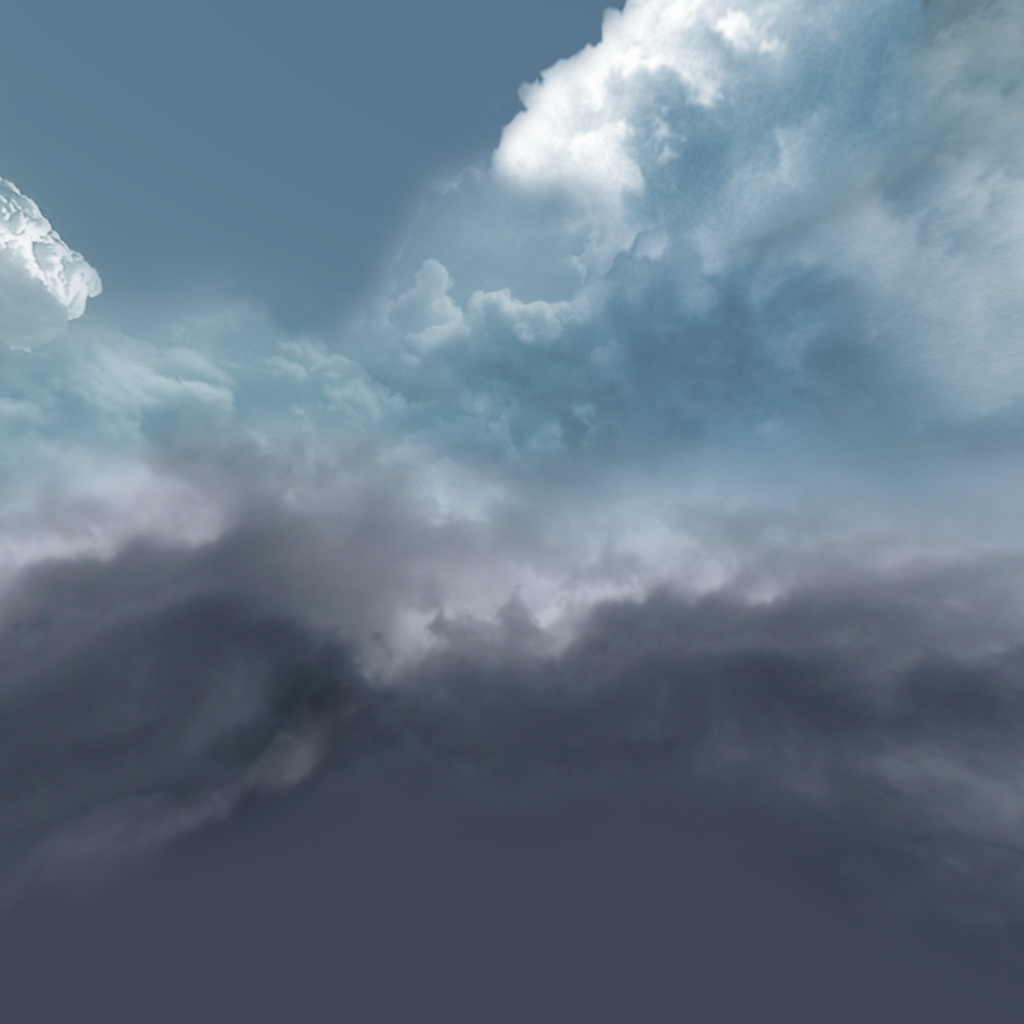
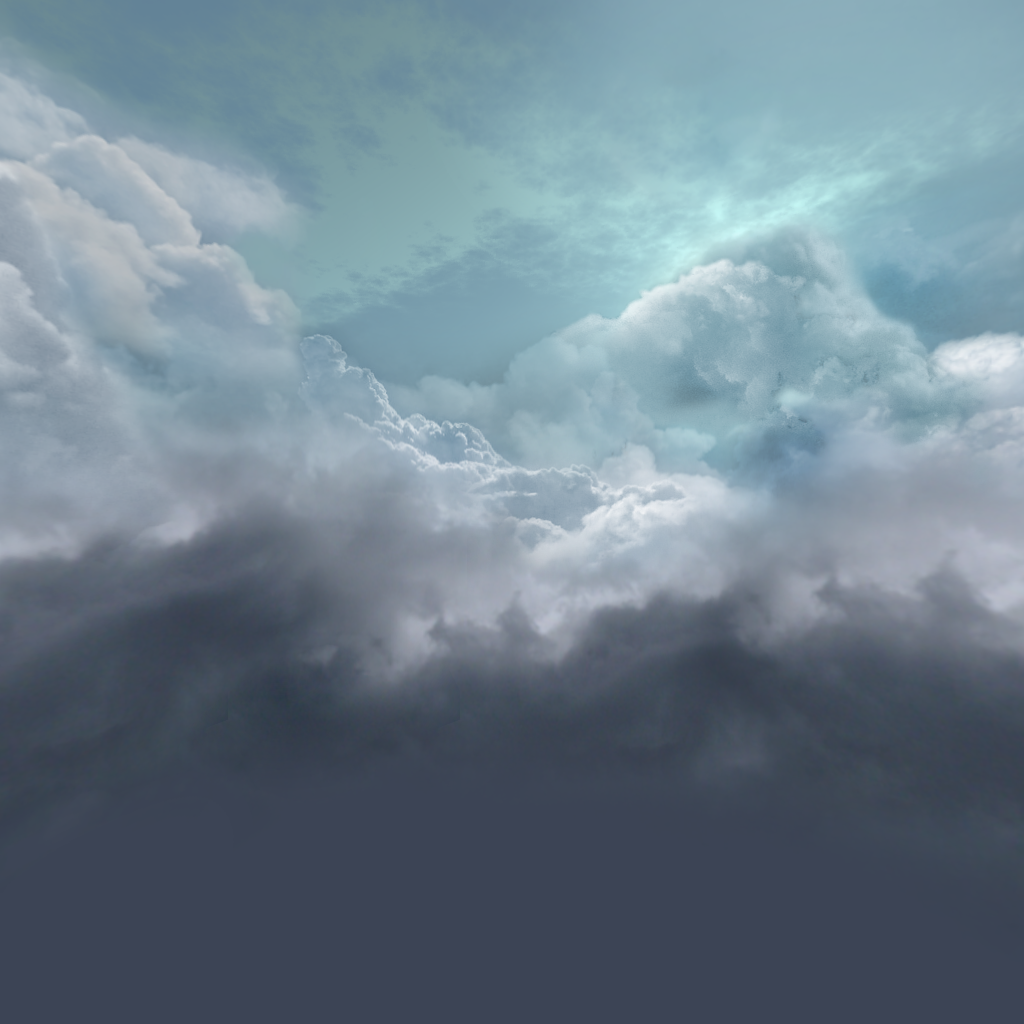
Adds skybox with fog Changes sun in shader to match skybox sun

diff --git a/src/Project/ProjectApplication.cpp b/src/Project/ProjectApplication.cpp
@@ -61,6 +61,10 @@ static constexpr char vert_indexed_shader_path[] = "data/shaders/draw_indexed.ve
 static constexpr char frag_color_shader_path[] = "data/shaders/color.frag.glsl";
 static constexpr char frag_phong_shader_path[] = "data/shaders/phongFog.frag.glsl";
 
+static constexpr char vert_skybox_shader_path[] = "data/shaders/skybox.vert.glsl";
+static constexpr char frag_skybox_shader_path[] = "data/shaders/skybox.frag.glsl";
+
+
 
 static bool Collision::SphereAABBCollisionCheck(Sphere const& sphere, AABB const& aabb)
 {
@@ -216,7 +220,7 @@ static Fwog::GraphicsPipeline CreatePipelineColoredIndex()
 
 	static constexpr auto sceneInputBindingDescs = std::array{
 		Fwog::VertexInputBindingDescription{
-			// color
+			// position
 			.location = 0,
 			.binding = 0,
 			.format = Fwog::Format::R32G32B32_FLOAT,
@@ -250,6 +254,33 @@ static Fwog::GraphicsPipeline CreatePipelineColoredIndex()
 			.inputAssemblyState = primDescs,
 			.vertexInputState = {inputDescs},
 			.depthState = {.depthTestEnable = true, .depthWriteEnable = true, .depthCompareOp = Fwog::CompareOp::LESS},
+		} };
+
+}
+
+Fwog::GraphicsPipeline ProjectApplication::CreatePipelineSkybox()
+{
+	static constexpr auto sceneInputBindingDescs = std::array{
+		Fwog::VertexInputBindingDescription{
+			// position
+			.location = 0,
+			.binding = 0,
+			.format = Fwog::Format::R32G32B32_FLOAT,
+			.offset = 0
+	}};
+
+	auto inputDescs = sceneInputBindingDescs;
+	auto primDescs = Fwog::InputAssemblyState{ Fwog::PrimitiveTopology::TRIANGLE_LIST };
+
+	auto vertexShader = Fwog::Shader(Fwog::PipelineStage::VERTEX_SHADER, ProjectApplication::LoadFile(vert_skybox_shader_path));
+	auto fragmentShader = Fwog::Shader(Fwog::PipelineStage::FRAGMENT_SHADER, ProjectApplication::LoadFile(frag_skybox_shader_path));
+
+	return Fwog::GraphicsPipeline{ {
+			.vertexShader = &vertexShader,
+			.fragmentShader = &fragmentShader,
+			.inputAssemblyState = primDescs,
+			.vertexInputState = {inputDescs},
+			.depthState = {.depthTestEnable = false, .depthWriteEnable = false},
 		} };
 
 }
@@ -395,6 +426,7 @@ void ProjectApplication::CreateSkybox()
 	int32_t textureWidth, textureHeight, textureChannels;
 	constexpr int32_t expected_num_channels = 4;
 	
+
 	unsigned char* textureData_skybox_front = stbi_load("data/skybox/front.png", &textureWidth, &textureHeight, &textureChannels, expected_num_channels);
 	assert(textureData_skybox_front);
 
@@ -406,6 +438,7 @@ void ProjectApplication::CreateSkybox()
 
 	unsigned char* textureData_skybox_right = stbi_load("data/skybox/right.png", &textureWidth, &textureHeight, &textureChannels, expected_num_channels);
 	assert(textureData_skybox_right);
+
 
 	unsigned char* textureData_skybox_up = stbi_load("data/skybox/up.png", &textureWidth, &textureHeight, &textureChannels, expected_num_channels);
 	assert(textureData_skybox_up);
@@ -428,7 +461,7 @@ void ProjectApplication::CreateSkybox()
 	Fwog::TextureCreateInfo createInfo{
 		.imageType = ImageType::TEX_CUBEMAP,
 		.format = Fwog::Format::R8G8B8A8_SRGB,
-		.extent = { static_cast<uint32_t>(textureWidth), static_cast<uint32_t>(textureHeight), num_cube_faces},
+		.extent = { static_cast<uint32_t>(textureWidth), static_cast<uint32_t>(textureHeight)},
 		.mipLevels =  uint32_t(1 + floor(log2(glm::max(textureWidth, textureHeight)))),
 		.arrayLayers = 1,
 		.sampleCount = SampleCount::SAMPLES_1,
@@ -440,10 +473,10 @@ void ProjectApplication::CreateSkybox()
 
 	auto upload_face = [&](uint32_t curr_face, unsigned char* texture_pixel_data)
 	{
-		Fwog::TextureUpdateInfo updateInfo{ .dimension = Fwog::UploadDimension::TWO,
+		Fwog::TextureUpdateInfo updateInfo{ .dimension = Fwog::UploadDimension::THREE,
 			.level = 0,
-			.offset = {},
-			.size = {static_cast<uint32_t>(textureWidth), static_cast<uint32_t>(textureHeight), curr_face},
+			.offset = {.depth = curr_face},
+			.size = {static_cast<uint32_t>(textureWidth), static_cast<uint32_t>(textureHeight), 1},
 			.format = Fwog::UploadFormat::RGBA,
 			.type = Fwog::UploadType::UBYTE,
 			.pixels = texture_pixel_data };
@@ -461,6 +494,8 @@ void ProjectApplication::CreateSkybox()
 	upload_face(back_id, textureData_skybox_back);
 
 	skybox_texture.value().GenMipmaps();
+	pipeline_skybox = CreatePipelineSkybox();
+	vertex_buffer_skybox.emplace(Primitives::skybox_vertices);
 }
 
 void ProjectApplication::LoadGroundPlane()
@@ -540,7 +575,9 @@ void ProjectApplication::LoadBuffers()
 		globalStruct.eyePos = camPos;
 
 		globalUniformsBuffer = Fwog::TypedBuffer<GlobalUniforms>(Fwog::BufferStorageFlag::DYNAMIC_STORAGE);
+		globalUniformsBuffer_skybox = Fwog::TypedBuffer<GlobalUniforms>(Fwog::BufferStorageFlag::DYNAMIC_STORAGE);
 		globalUniformsBuffer.value().SubData(globalStruct, 0);
+		globalUniformsBuffer_skybox.value().SubData(globalStruct, 0);
 	}
 
 
@@ -722,6 +759,7 @@ bool ProjectApplication::Load()
 
 	LoadBuffers();
 	CreateGroundChunks();
+	CreateSkybox();
 
 	//LoadCollectables();
 	//LoadBuildings();
@@ -1017,8 +1055,13 @@ void ProjectApplication::Update(double dt)
 
 		globalStruct.viewProj = viewProj;
 		globalStruct.eyePos = editorCamera.position;
-
+		
 		globalUniformsBuffer.value().SubData(globalStruct, 0);
+		
+		glm::mat4 view_rot_only = glm::mat4(glm::mat3(view));
+		globalStruct.viewProj = proj * view_rot_only;
+		globalUniformsBuffer_skybox.value().SubData(globalStruct, 0);
+
 	}
 
 
@@ -1156,10 +1199,14 @@ void ProjectApplication::Update(double dt)
 				gameplayCamera.up =  aircraft_body.up_vector;
 
 				glm::mat4 view = glm::lookAt(gameplayCamera.position, gameplayCamera.target, gameplayCamera.up);
+				glm::mat4 view_rot_only = glm::mat4(glm::mat3(view));
 
 				//we dont actually have to recalculate this every frame yet but we might wanna adjust fov i guess
 				glm::mat4 proj = glm::perspective((PI / 2.0f) * zoom_speed_level, 1.6f, nearPlane, farPlane);
 				glm::mat4 viewProj = proj * view;
+
+				globalStruct.viewProj = proj * view_rot_only;
+				globalUniformsBuffer_skybox.value().SubData(globalStruct, 0);
 
 				globalStruct.viewProj = viewProj;
 				globalStruct.eyePos = gameplayCamera.position;
@@ -1246,8 +1293,8 @@ void ProjectApplication::MouseRaycast(camera const& cam)
 
 	constexpr float debug_mouse_click_length = 5000.0f;
 
-	//Test if it works lol
-	AddDebugDrawLine(aircraftPos, cam.position + ray_world_vec3 * debug_mouse_click_length, glm::vec3(0.0f, 0.0f, 1.0f));
+
+	std::cout << "Ray: " <<  (ray_world_vec3).x << ", " << (ray_world_vec3).y << ", " << (ray_world_vec3).z << "\n";
 
 	std::vector<buildingObject*> accepted_colliders;
 
@@ -1302,6 +1349,26 @@ void ProjectApplication::RenderScene()
 	 .depthLoadOp = Fwog::AttachmentLoadOp::CLEAR,
 	  .clearDepthValue = 1.0f
 		});
+
+
+	//Drawing skybox first without any depth buffer
+	{
+
+		Fwog::SamplerState ss;
+		ss.minFilter = Fwog::Filter::LINEAR;
+		ss.magFilter = Fwog::Filter::LINEAR;
+		ss.mipmapFilter = Fwog::Filter::LINEAR;
+		ss.addressModeU = Fwog::AddressMode::REPEAT;
+		ss.addressModeV = Fwog::AddressMode::REPEAT;
+		ss.anisotropy = Fwog::SampleCount::SAMPLES_16;
+		auto nearestSampler = Fwog::Sampler(ss);
+
+		Fwog::Cmd::BindGraphicsPipeline(pipeline_skybox.value());
+		Fwog::Cmd::BindUniformBuffer(0, globalUniformsBuffer_skybox.value());
+		Fwog::Cmd::BindSampledImage(0, skybox_texture.value(), nearestSampler);
+		Fwog::Cmd::BindVertexBuffer(0, vertex_buffer_skybox.value(), 0, 3 * sizeof(float));
+		Fwog::Cmd::Draw(Primitives::skybox_vertices.size() / 3, 1, 0, 0);
+	}
 
 
 	//Drawing a ground plane
@@ -1400,6 +1467,8 @@ void ProjectApplication::RenderScene()
 			ClearLines();
         }
 	}
+
+
 
 
 

diff --git a/src/Project/include/ProjectApplication.hpp b/src/Project/include/ProjectApplication.hpp
@@ -85,6 +85,53 @@ namespace Primitives
         {{-0.5, -0.5, 0.5}, {0, -1, 0}, {0, 1}},
     };
 
+    //Lazy so I stole it from the cursed LOGL https://learnopengl.com/Advanced-OpenGL/Cubemaps
+    static constexpr std::array<float, 3 * 6 * 6> skybox_vertices = {
+
+        -1.0f,  1.0f, -1.0f,
+        -1.0f, -1.0f, -1.0f,
+        1.0f, -1.0f, -1.0f,
+        1.0f, -1.0f, -1.0f,
+        1.0f,  1.0f, -1.0f,
+        -1.0f,  1.0f, -1.0f,
+
+        -1.0f, -1.0f,  1.0f,
+        -1.0f, -1.0f, -1.0f,
+        -1.0f,  1.0f, -1.0f,
+        -1.0f,  1.0f, -1.0f,
+        -1.0f,  1.0f,  1.0f,
+        -1.0f, -1.0f,  1.0f,
+
+        1.0f, -1.0f, -1.0f,
+        1.0f, -1.0f,  1.0f,
+        1.0f,  1.0f,  1.0f,
+        1.0f,  1.0f,  1.0f,
+        1.0f,  1.0f, -1.0f,
+        1.0f, -1.0f, -1.0f,
+
+        -1.0f, -1.0f,  1.0f,
+        -1.0f,  1.0f,  1.0f,
+        1.0f,  1.0f,  1.0f,
+        1.0f,  1.0f,  1.0f,
+        1.0f, -1.0f,  1.0f,
+        -1.0f, -1.0f,  1.0f,
+
+        -1.0f,  1.0f, -1.0f,
+        1.0f,  1.0f, -1.0f,
+        1.0f,  1.0f,  1.0f,
+        1.0f,  1.0f,  1.0f,
+        -1.0f,  1.0f,  1.0f,
+        -1.0f,  1.0f, -1.0f,
+
+        -1.0f, -1.0f, -1.0f,
+        -1.0f, -1.0f,  1.0f,
+        1.0f, -1.0f, -1.0f,
+        1.0f, -1.0f, -1.0f,
+        -1.0f, -1.0f,  1.0f,
+        1.0f, -1.0f,  1.0f
+    };
+
+
     static constexpr std::array<uint16_t, 36> cube_indices{
       0,  1,  2,  2,  3,  0,
 
@@ -248,6 +295,7 @@ private:
     void CreateGroundChunks();
 
 
+    Fwog::GraphicsPipeline CreatePipelineSkybox();
     void CreateSkybox();
 
     static float lerp(float start, float end, float t);
@@ -272,6 +320,13 @@ private:
 
     std::optional<Fwog::GraphicsPipeline> pipeline_colored_indexed;
 
+ 
+    std::optional<Fwog::GraphicsPipeline> pipeline_skybox;
+
+    //Draw with arrays and not indexed so we don't need indices
+    std::optional<Fwog::Buffer> vertex_buffer_skybox;
+
+
     static constexpr float axisScale = 1000.0f;
     static constexpr float PI = 3.1415926f;
 
@@ -282,6 +337,7 @@ private:
         glm::vec3 eyePos;
     };
     std::optional<Fwog::TypedBuffer<GlobalUniforms>> globalUniformsBuffer;
+    std::optional<Fwog::TypedBuffer<GlobalUniforms>> globalUniformsBuffer_skybox;
 
     GlobalUniforms globalStruct;
 
@@ -460,7 +516,7 @@ private:
     //uint32_t num_active_collectables{0};
     static constexpr uint32_t max_num_collectables{4096};
 
-    bool renderAxis = false;
+    bool renderAxis = true;
     bool draw_collectable_colliders = false;
     bool draw_player_colliders = false;
 
